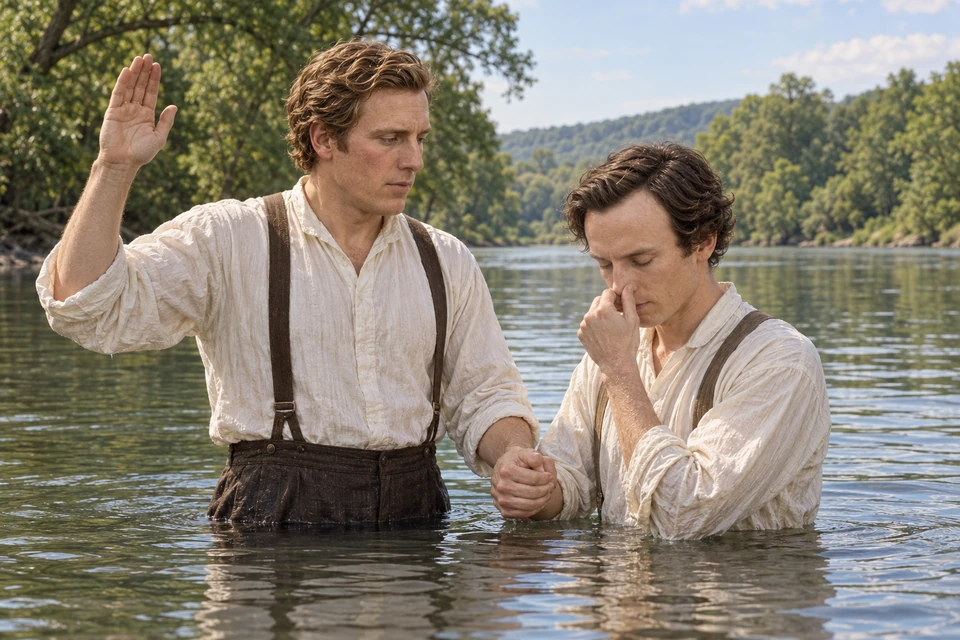
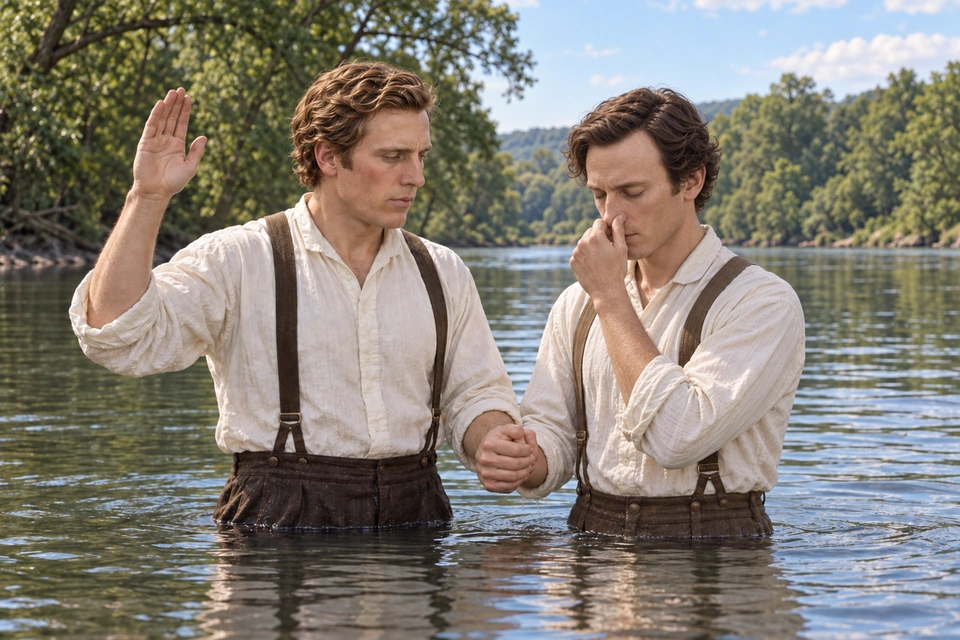
Publish approved adult-scale baptism correction

diff --git a/docs/baptism-art-owner-approval.md b/docs/baptism-art-owner-approval.md
@@ -1,0 +1,7 @@
+# Approved Joseph baptizes Oliver artwork
+
[1 lines of base64/hex data omitted]
+
[1 lines of base64/hex data omitted]
+
+The existing caption, alternative text, dimensions, source links and native study interactions are retained. The companion Oliver baptizes Joseph artwork is unchanged.
